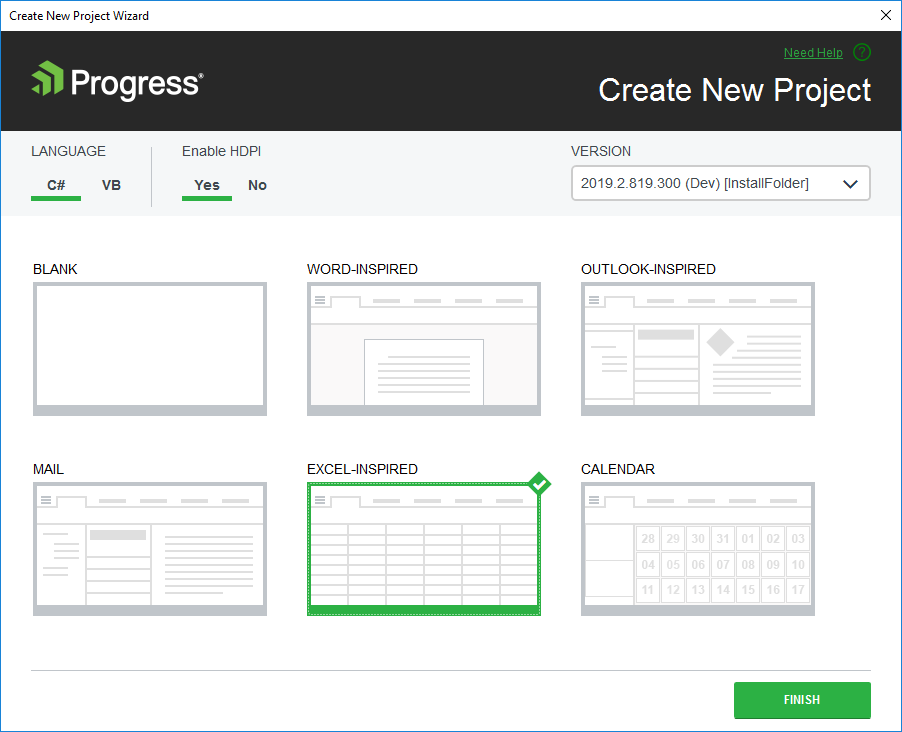
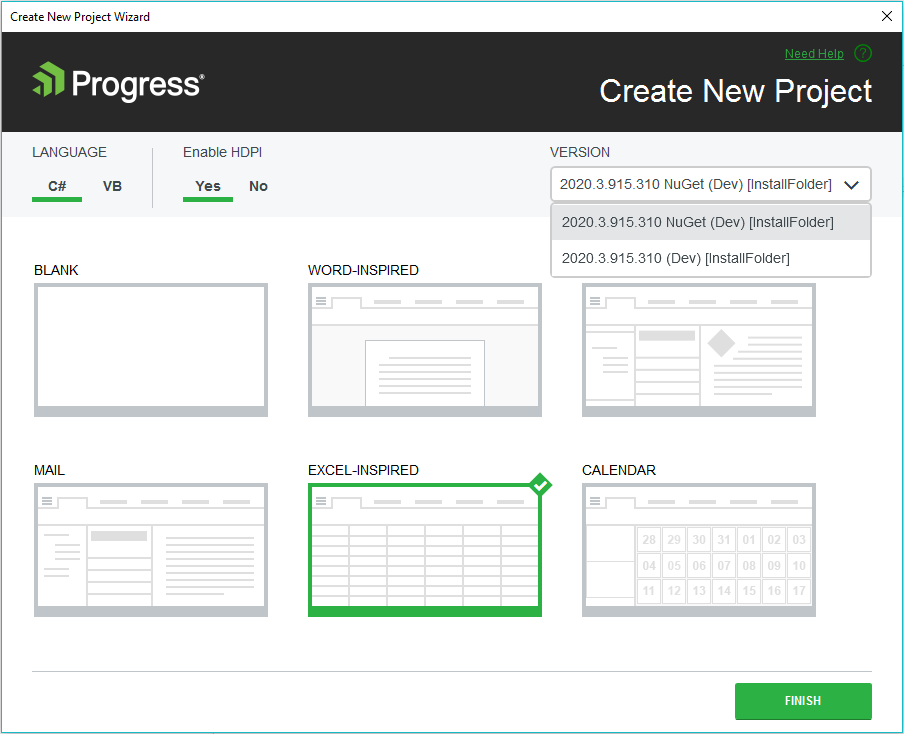
Update .NET Core article

diff --git a/core/deploy-application.md b/core/deploy-application.md
@@ -22,9 +22,20 @@ This article shows how to deploy a WinForms .NET Core Application using Visual S
    
 ![create-new-project-001](images/deploy-application001.png)
 
-2\. Select one of the application templates from the New Project Wizard. For this example, I use the excel-inspired template.
+2\. Select one of the application templates from the New Project Wizard. For this example, I use the Excel-Inspired template.
+Currently, Telerik WinForms .NET Core project templates support both .NET Core assembly references (2020.3.915.310) and .NET Core package references (2020.3.915.310 NuGet). 
 
 ![choose-template](images/deploy-application002.png)
+
+2a\. Choosing **2020.915.310** option and finishing the wizard will create a new Telerik WinForms Excel-Inspired project template with assembly references:
+
+![choose-template](images/deploy-application002a.png)
+![choose-template](images/deploy-application0021a.png)
+
+2b\. Choosing **2020.3.915.310 NuGet** distribution, the Telerik WinForms Excel-Inspired project template will use a package reference to the UI.for.WinForms.AllControls.NetCore.2020.3.915 NuGet package.
+
+![choose-template](images/deploy-application002b.png)
+![choose-template](images/deploy-application0021b.png)
 
 >caption Figure 1: Spreadsheet application created with the New Project Wizard
 
